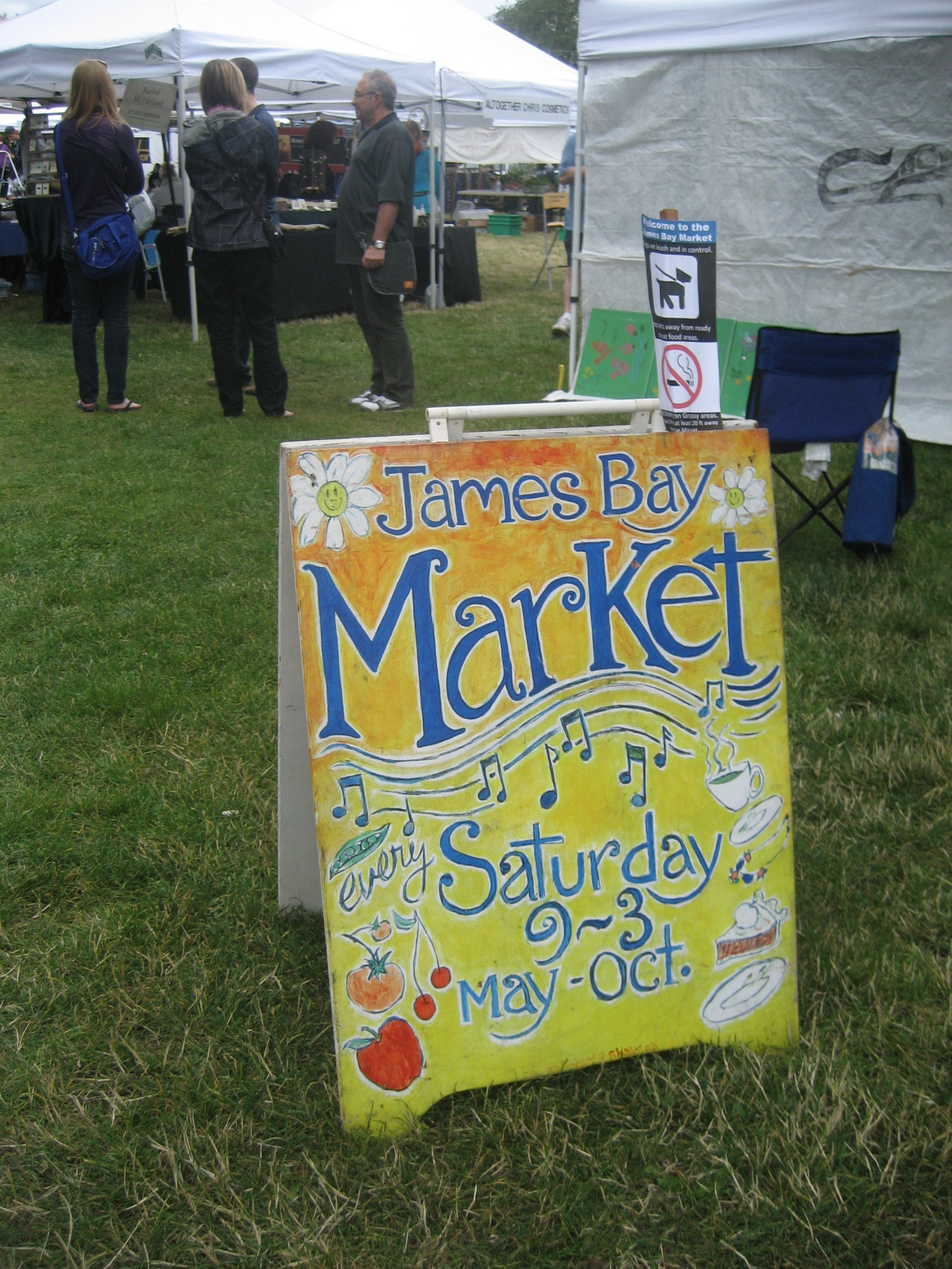
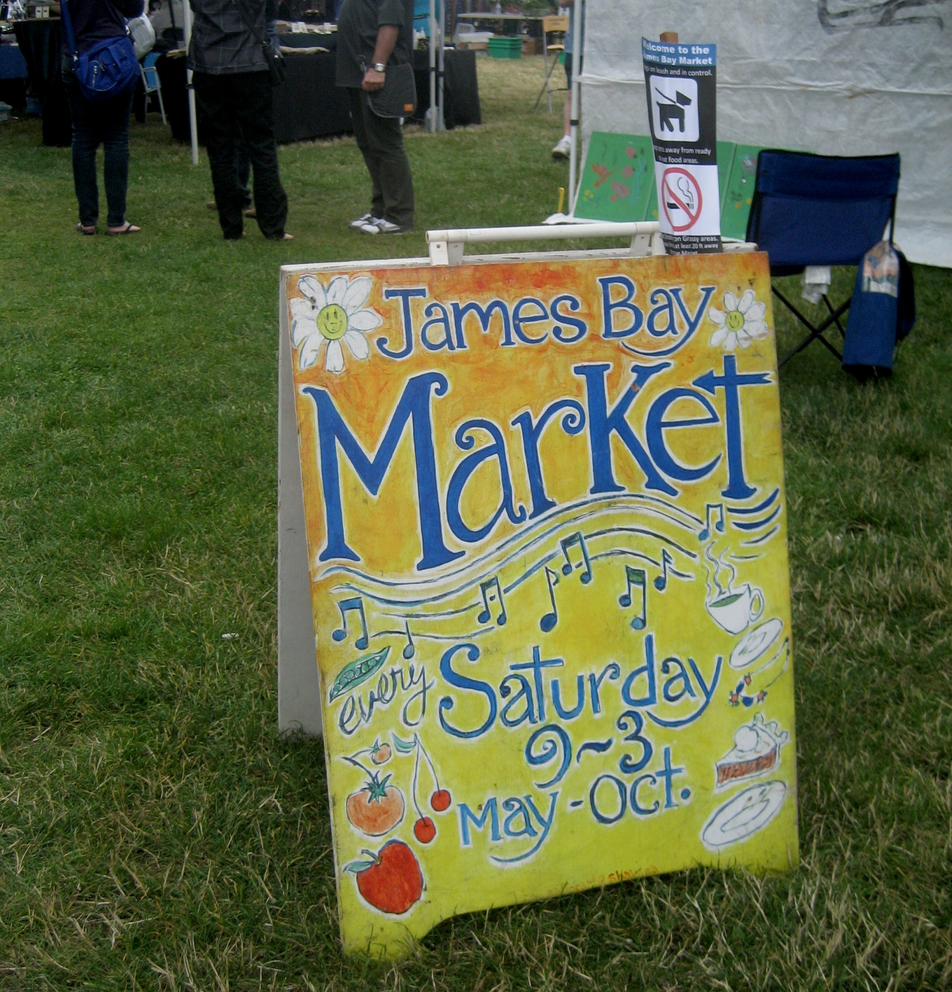
Added 2 new markets to the updateMarkets script and edited some of the markets images

diff --git a/src/server/scripts/updateMarkets.py b/src/server/scripts/updateMarkets.py
@@ -433,4 +433,101 @@ m = Market(
 m.save()
 
 
+#-----------------------------------------------------------------------------------------------------
+# Peninsula Country Market
+#-----------------------------------------------------------------------------------------------------
+
+# Create an address
+a = Address(
+	addr_line1="1528 Stelly’s Crossroad", # Street number and street name
+	city="Saanichton", # City
+	state="BC", # Province
+	country="Canada", # Country
+	zipcode="V8R 4B2", # Postal Code
+	latitude=48.5796898,
+	longitude=-123.4363087,
+)
+
+# Save it
+a.save()
+
+# Create hours for the address
+# h1 = OpeningHours(
+# 	address=a, # Each opening hour object has to have an address associated with it
+# 	weekday=6, # 1 = Monday, ..., 7 = Sunday
+# 	from_hour=datetime(2014, 10, 4, 16, 30, 0), # (year, month, day, hour, minute, second)
+# 	to_hour=datetime(2014, 10, 4, 10, 30, 0), # (year, month, day, hour, minute, second)
+# )
+
+# Save it
+# h1.save()
+
+
+mp = MarketPhoto(
+		image=File(open('../client/app/images/markets/PCM.jpg'))
+)
+
+mp.save()
+
+
+# Create a market
+m = Market(
+	address=a, # Each Market object needs an address associated with it (this also associates hours)
+	name="Peninsula Country Market", # Market name
+	description="The Peninsula Country Market is a vibrant community market that has 50 vendors weekly offering farm fresh products, jams and jellies, honey, homemade bread, cut flowers, assorted fresh meats, organic produce and a fine selection of arts and crafts. Enjoy a country morning among friends live music, hot coffee, great munchies and children’s activities. The market runs seasonally from June - October.", # Market description
+	photo=mp,
+	webpage="http://www.peninsulacountrymarket.ca/"
+)
+
+m.save()
+
+
+#-----------------------------------------------------------------------------------------------------
+# Goldstream Station Market
+#-----------------------------------------------------------------------------------------------------
+
+# Create an address
+a = Address(
+	addr_line1="2800 Bryn Maur Rd", # Street number and street name
+	city="Victoria", # City
+	state="BC", # Province
+	country="Canada", # Country
+	zipcode="VV9B 3T4", # Postal Code
+	latitude=48.448523,
+	longitude=-123.498528,
+)
+
+# Save it
+a.save()
+
+# Create hours for the address
+# h1 = OpeningHours(
+# 	address=a, # Each opening hour object has to have an address associated with it
+# 	weekday=6, # 1 = Monday, ..., 7 = Sunday
+# 	from_hour=datetime(2014, 10, 4, 16, 30, 0), # (year, month, day, hour, minute, second)
+# 	to_hour=datetime(2014, 10, 4, 10, 30, 0), # (year, month, day, hour, minute, second)
+# )
+
+# Save it
+# h1.save()
+
+
+mp = MarketPhoto(
+		image=File(open('../client/app/images/markets/GSSM.jpg'))
+)
+
+mp.save()
+
+
+# Create a market
+m = Market(
+	address=a, # Each Market object needs an address associated with it (this also associates hours)
+	name="Goldstream Station Market", # Market name
+	description="The Goldstream Station Market goal is to create a sustainable, self-supporting community market in the West Shore region. The market is based on a “you grow it, you make it, you bake, you sell it” philosophy, and features many local farmers and foodmakers.  The market runs seasonally from May - August.", # Market description
+	photo=mp,
+	webpage="http://goldstreamstationmarket.ca/"
+)
+
+m.save()
+
 
